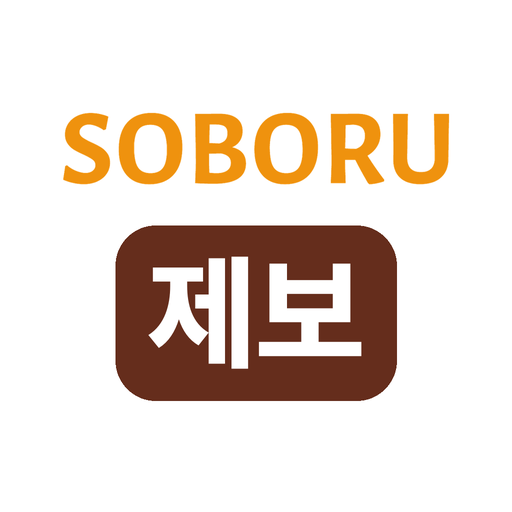
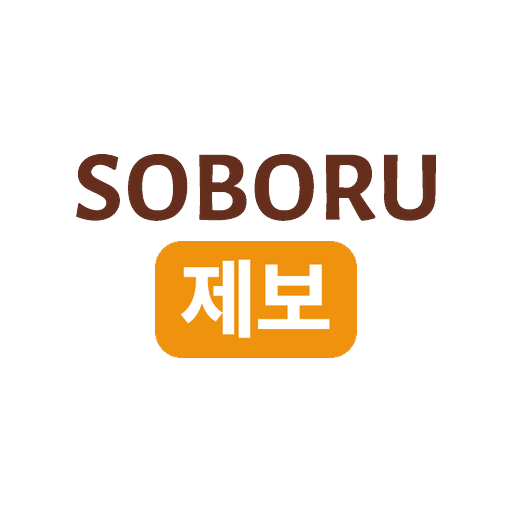
제보 도우미, 로그인 없이 제보, 소보루제보 앱 아이콘, 둘러보기·상세 표지·협력기관 띠, 자문단 메일, 레터 카드 (#369)
* 소보루 레터에 소비자제보센터 바로 가기 카드

Claude-Session: https://claude.ai/code/session_01SGfBdtXmX7h9qt8XW4iLQw

* 로그인 없이도 제보 받기 (기본값)

Claude-Session: https://claude.ai/code/session_01SGfBdtXmX7h9qt8XW4iLQw

* 자동으로 만든 자문단 계정은 같은 이메일의 카카오·네이버 로그인으로 이어짐

Claude-Session: https://claude.ai/code/session_01SGfBdtXmX7h9qt8XW4iLQw

* 소보루제보 앱 1.1.0: 갈색 SOBORU + 귤색 제보 상자 아이콘, 제보하기 탭은 글쓰기 제보로

Claude-Session: https://claude.ai/code/session_01SGfBdtXmX7h9qt8XW4iLQw

* 소보루제보 앱 아이콘: SOBORU를 진짜 로고체(갈색)로 교체

Claude-Session: https://claude.ai/code/session_01SGfBdtXmX7h9qt8XW4iLQw

* 제보 도우미: 캡처로 빈칸 채우기 + 문제 나열, 5가지 완성도 막대 (제보는 막지 않음)

Claude-Session: https://claude.ai/code/session_01SGfBdtXmX7h9qt8XW4iLQw

* 자문단 섭외 메일 합니다체·예시 화면, 둘러보기 휴대폰 B안+메시지 카드, 제보 상세 업종 표지, 협력기관 띠에 경기도소비자정보센터·한국소비자단체협의회

Claude-Session: https://claude.ai/code/session_01SGfBdtXmX7h9qt8XW4iLQw

---------

Changed region(s): [[0.125, 0.2188, 0.875, 0.7812]]

diff --git a/templates/report.html b/templates/report.html
@@ -17,6 +17,27 @@
   <div class="form-panel">
     <form method="post" enctype="multipart/form-data"><input type="hidden" name="_csrf" value="{{ csrf_token() }}">
       <div class="hp" aria-hidden="true"><label>웹사이트<input name="website" tabindex="-1" autocomplete="off"></label></div>
+      <h2 class="form-group-title">{{ ui('report.group_case', '제보 내용') }}</h2>
+      {#- 운영자 2026-11-04: 제보 도우미 — 캡처를 올리면 AI가 읽어서 빈칸을 채우고 문제를 짚어 줌. 안 써도 제보는 그대로 됨 -#}
+      {% if scan_on %}<div class="scan-box" data-scan data-url="{{ url_for('report_talk_ai') }}">
+        <label class="scan-pick"><input type="file" accept="image/*" multiple hidden><span class="scan-ic" aria-hidden="true"><svg viewBox="0 0 24 24"><path d="M4 8V6a2 2 0 0 1 2-2h2M16 4h2a2 2 0 0 1 2 2v2M20 16v2a2 2 0 0 1-2 2h-2M8 20H6a2 2 0 0 1-2-2v-2"/><path d="M8 12h8"/></svg></span><span class="scan-t"><b>{{ ui('report.scan_t', '캡처로 빠르게 채우기') }}</b><small>{{ ui('report.scan_sub', '주문 내역, 결제 문자, 상담 대화 캡처를 올리면 AI가 읽고 빈칸을 채워요') }}</small></span></label>
+        <div class="scan-out" hidden><p class="scan-msg" role="status"></p><ul class="scan-issues"></ul></div>
+      </div>{% endif %}
+      <div class="field"><label for="r-industry">{{ ui('report.f_industry', '업종') }} <small>*</small></label><select id="r-industry" name="industry" required><option value="">{{ ui('report.f_industry_pick', '업종을 골라 주세요') }}</option>{% for x in industries %}<option value="{{ x.name }}"{% if request.form.get('industry') == x.name %} selected{% endif %}>{{ x.name }}{% if x.examples %} — {{ x.examples }}{% endif %}</option>{% endfor %}</select>{{ ed_list('report_industries') }}</div>
+      <div class="field"><label for="r-category">{{ ui('report.f_category', '제보 유형') }} <small>*</small></label><select id="r-category" name="category" required><option value="">{{ ui('report.f_category_pick', '선택해 주세요') }}</option>{% for x in categories %}<option {% if request.form.get('category', request.args.get('category')) == x %}selected{% endif %}>{{ x }}</option>{% endfor %}</select></div>
+      <div class="field co-pick"><label for="r-company">{{ ui('report.f_company', '업체·서비스명') }} <small>*</small></label><input id="r-company" name="company" maxlength="120" required autocomplete="off" role="combobox" aria-autocomplete="list" aria-expanded="false" aria-controls="r-company-list" placeholder="{{ ui('report.f_company_ph', '예: 소보루쇼핑몰') }}" value="{{ request.form.get('company','') }}"><input type="hidden" name="company_id" value="{{ request.form.get('company_id','') }}"><ul class="co-suggest" id="r-company-list" role="listbox" hidden></ul><p class="hint">{{ ui('report.f_company_hint', '홈페이지 주소 말고 정확한 업체명(상호)을 적어 주세요. 정확할수록 빨리 확인할 수 있어요.') }} {{ ui('report.f_company_hint2', '등록된 기업은 이름을 치면 아래에 떠요. 없으면 그대로 적어 주세요.') }}</p></div>
+      <div class="field"><label for="r-occurred">{{ ui('report.f_occurred', '피해가 일어난 날') }}</label><input id="r-occurred" name="occurred_on" type="date" max="{{ today }}" value="{{ request.form.get('occurred_on','') }}"><p class="hint">{{ ui('report.f_occurred_hint', '정확하지 않으면 비워 두셔도 돼요.') }}</p></div>
+      <div class="field"><label for="r-subject">{{ ui('report.f_subject', '제보 제목') }} <small>*</small></label><input id="r-subject" name="subject" maxlength="160" required placeholder="{{ ui('report.f_subject_ph', '피해 내용을 한 줄로 요약해 주세요') }}" value="{{ request.form.get('subject','') }}"></div>
+      <div class="field"><label for="r-description">{{ ui('report.f_description', '피해 내용') }} <small>*</small></label><textarea id="r-description" name="description" maxlength="6000" required placeholder="{{ ui('report.f_description_ph', '구매·계약 일자, 피해 경위, 업체와 주고받은 내용을 구체적으로 작성해 주세요') }}">{{ request.form.get('description','') }}</textarea></div>
+      <div class="jebo-help" data-help hidden>
+        <div class="jh-top"><b>{{ ui('report.help_t', '제보 도우미') }}</b><span class="jh-pct">0%</span></div>
+        <div class="jh-bar" aria-hidden="true"><i></i></div>
+        <p class="jh-note">{{ ui('report.help_note', '다섯 가지가 들어가면 업체에 더 정확하게 전할 수 있어요. 다 못 채워도 제보할 수 있어요.') }}</p>
+        <div class="jh-chips"></div>
+      </div>
+      <div class="field"><label for="r-request">{{ ui('report.f_request', '원하는 해결 방법') }} <small>*</small></label><textarea id="r-request" name="request_text" maxlength="3000" required placeholder="{{ ui('report.f_request_ph', '환불, 교환, 수리, 설명 요청 등') }}">{{ request.form.get('request_text','') }}</textarea></div>
+      <div class="field"><label for="r-evidence">{{ ui('report.f_file', '증빙자료 (선택)') }}</label><input id="r-evidence" type="file" name="evidence" multiple accept=".pdf,.png,.jpg,.jpeg,.webp,.mp4,.mov"><p class="hint">{{ ui('report.f_file_hint2', '사진·PDF·동영상(mp4, mov)을 5개까지, 모두 합쳐 20MB까지 올릴 수 있어요. 사진과 동영상이 있으면 더 빠르게 확인할 수 있어요. 개인정보가 담긴 부분은 가리고 올려 주세요.') }}</p><p class="hint file-picked" hidden></p></div>
+
       <h2 class="form-group-title">{{ ui('report.group_reporter', '제보자 정보') }}</h2>
       <p class="form-group-note">{{ ui('report.group_reporter_note', '연락처와 개인정보는 공개되지 않고, 제보 확인과 연락에만 쓰여요.') }}</p>
       {% set me = g.user if g.user and request.method == 'GET' else none %}
@@ -44,15 +65,6 @@
         <div class="field"><label for="r-age">{{ ui('report.f_age', '연령대 (선택)') }}</label><select id="r-age" name="age_group"><option value="">{{ ui('report.f_age_pick', '연령대 선택') }}</option>{% for x in ages %}<option{% if request.form.get('age_group') == x %} selected{% endif %}>{{ x }}</option>{% endfor %}</select></div>
       </div>
 
-      <h2 class="form-group-title">{{ ui('report.group_case', '제보 내용') }}</h2>
-      <div class="field"><label for="r-industry">{{ ui('report.f_industry', '업종') }} <small>*</small></label><select id="r-industry" name="industry" required><option value="">{{ ui('report.f_industry_pick', '업종을 골라 주세요') }}</option>{% for x in industries %}<option value="{{ x.name }}"{% if request.form.get('industry') == x.name %} selected{% endif %}>{{ x.name }}{% if x.examples %} — {{ x.examples }}{% endif %}</option>{% endfor %}</select>{{ ed_list('report_industries') }}</div>
-      <div class="field"><label for="r-category">{{ ui('report.f_category', '제보 유형') }} <small>*</small></label><select id="r-category" name="category" required><option value="">{{ ui('report.f_category_pick', '선택해 주세요') }}</option>{% for x in categories %}<option {% if request.form.get('category', request.args.get('category')) == x %}selected{% endif %}>{{ x }}</option>{% endfor %}</select></div>
-      <div class="field co-pick"><label for="r-company">{{ ui('report.f_company', '업체·서비스명') }} <small>*</small></label><input id="r-company" name="company" maxlength="120" required autocomplete="off" role="combobox" aria-autocomplete="list" aria-expanded="false" aria-controls="r-company-list" placeholder="{{ ui('report.f_company_ph', '예: 소보루쇼핑몰') }}" value="{{ request.form.get('company','') }}"><input type="hidden" name="company_id" value="{{ request.form.get('company_id','') }}"><ul class="co-suggest" id="r-company-list" role="listbox" hidden></ul><p class="hint">{{ ui('report.f_company_hint', '홈페이지 주소 말고 정확한 업체명(상호)을 적어 주세요. 정확할수록 빨리 확인할 수 있어요.') }} {{ ui('report.f_company_hint2', '등록된 기업은 이름을 치면 아래에 떠요. 없으면 그대로 적어 주세요.') }}</p></div>
-      <div class="field"><label for="r-occurred">{{ ui('report.f_occurred', '피해가 일어난 날') }}</label><input id="r-occurred" name="occurred_on" type="date" max="{{ today }}" value="{{ request.form.get('occurred_on','') }}"><p class="hint">{{ ui('report.f_occurred_hint', '정확하지 않으면 비워 두셔도 돼요.') }}</p></div>
-      <div class="field"><label for="r-subject">{{ ui('report.f_subject', '제보 제목') }} <small>*</small></label><input id="r-subject" name="subject" maxlength="160" required placeholder="{{ ui('report.f_subject_ph', '피해 내용을 한 줄로 요약해 주세요') }}" value="{{ request.form.get('subject','') }}"></div>
-      <div class="field"><label for="r-description">{{ ui('report.f_description', '피해 내용') }} <small>*</small></label><textarea id="r-description" name="description" maxlength="6000" required placeholder="{{ ui('report.f_description_ph', '구매·계약 일자, 피해 경위, 업체와 주고받은 내용을 구체적으로 작성해 주세요') }}">{{ request.form.get('description','') }}</textarea></div>
-      <div class="field"><label for="r-request">{{ ui('report.f_request', '원하는 해결 방법') }} <small>*</small></label><textarea id="r-request" name="request_text" maxlength="3000" required placeholder="{{ ui('report.f_request_ph', '환불, 교환, 수리, 설명 요청 등') }}">{{ request.form.get('request_text','') }}</textarea></div>
-      <div class="field"><label for="r-evidence">{{ ui('report.f_file', '증빙자료 (선택)') }}</label><input id="r-evidence" type="file" name="evidence" multiple accept=".pdf,.png,.jpg,.jpeg,.webp,.mp4,.mov"><p class="hint">{{ ui('report.f_file_hint2', '사진·PDF·동영상(mp4, mov)을 5개까지, 모두 합쳐 20MB까지 올릴 수 있어요. 사진과 동영상이 있으면 더 빠르게 확인할 수 있어요. 개인정보가 담긴 부분은 가리고 올려 주세요.') }}</p><p class="hint file-picked" hidden></p></div>
 
       <fieldset class="field visibility-pick"><legend>{{ ui('report.f_visibility', '공개 설정') }} <small>*</small></legend>
         <label class="vis-option"><input type="radio" name="visibility" value="public" required{% if request.form.get('visibility') == 'public' %} checked{% endif %}><span><b>{{ ui('report.vis_public', '공개') }}</b>{{ txt('report.visibility_public') }}</span></label>
@@ -139,6 +151,92 @@
       out.hidden = !names.length;
       out.textContent = names.length + '개 · ' + (total / 1048576).toFixed(1) + 'MB' + (input.files.length > {{ max_files }} || total > 20971520 ? ' — 5개, 20MB 이하로 골라 주세요' : '') + ' : ' + names.join(', ');
     });
+  })();
+  // 운영자 2026-11-04: 제보 도우미 ① 캡처로 채우기 — 사진을 줄여 AI에 보내고, 비어 있는 칸만 채움 (적어 둔 건 건드리지 않음). 올린 사진은 증빙자료에도 붙임
+  (function () {
+    var box = document.querySelector('[data-scan]');
+    if (!box) return;
+    var input = box.querySelector('input[type=file]'), out = box.querySelector('.scan-out'), msg = box.querySelector('.scan-msg'), ul = box.querySelector('.scan-issues');
+    var form = box.closest('form'), ev = document.getElementById('r-evidence');
+    function shrink(f) {
+      return new Promise(function (ok) {
+        var im = new Image(), url = URL.createObjectURL(f);
+        im.onload = function () {
+          var r = Math.min(1, 1024 / Math.max(im.width, im.height)), cv = document.createElement('canvas');
+          cv.width = Math.round(im.width * r); cv.height = Math.round(im.height * r);
+          cv.getContext('2d').drawImage(im, 0, 0, cv.width, cv.height); URL.revokeObjectURL(url);
+          cv.toBlob(function (b) { ok(b); }, 'image/jpeg', 0.8);
+        };
+        im.onerror = function () { URL.revokeObjectURL(url); ok(null); };
+        im.src = url;
+      });
+    }
+    function setVal(name, v) {
+      var el = form.querySelector('[name=' + name + ']');
+      if (!el || !v || el.value.trim()) return false;
+      if (el.tagName === 'SELECT' && !Array.prototype.some.call(el.options, function (o) { return o.value === v || o.text === v; })) return false;
+      el.value = v; el.dispatchEvent(new Event('input', { bubbles: true })); el.dispatchEvent(new Event('change', { bubbles: true }));
+      el.classList.add('scan-filled'); return true;
+    }
+    function attach(files) {
+      if (!ev || typeof DataTransfer === 'undefined') return;
+      try {
+        var dt = new DataTransfer();
+        Array.prototype.forEach.call(ev.files, function (f) { dt.items.add(f); });
+        files.forEach(function (f) { if (dt.files.length < {{ max_files }}) dt.items.add(f); });
+        ev.files = dt.files; ev.dispatchEvent(new Event('change'));
+      } catch (e) {}
+    }
+    input.addEventListener('change', function () {
+      var files = Array.prototype.slice.call(input.files, 0, 3);
+      if (!files.length) return;
+      out.hidden = false; ul.innerHTML = ''; msg.textContent = '{{ ui('report.scan_wait', '사진을 읽고 있어요. 10초쯤 걸려요.') }}'; box.classList.add('is-busy');
+      attach(files);
+      Promise.all(files.map(shrink)).then(function (blobs) {
+        var fd = new FormData();
+        fd.append('_csrf', form.querySelector('[name=_csrf]').value); fd.append('story', '');
+        blobs.forEach(function (b, i) { if (b) fd.append('photo', b, 'shot' + i + '.jpg'); });
+        return fetch(box.dataset.url, { method: 'POST', body: fd, credentials: 'same-origin' }).then(function (r) { return r.json(); });
+      }).then(function (res) {
+        box.classList.remove('is-busy');
+        if (!res || !res.ok) { msg.textContent = '{{ ui('report.scan_fail', '사진을 읽지 못했어요. 그대로 직접 적어 주세요.') }}'; return; }
+        var d = res.draft, n = 0;
+        ['industry', 'category', 'company', 'occurred_on', 'subject', 'description', 'request_text'].forEach(function (k) { if (setVal(k, d[k])) n++; });
+        msg.textContent = n ? '{{ ui('report.scan_done', '빈칸을 채웠어요. 다르면 고쳐 주세요.') }}' : '{{ ui('report.scan_none', '이미 적어 둔 내용은 그대로 뒀어요.') }}';
+        (d.issues || []).forEach(function (t) { var li = document.createElement('li'); li.textContent = t; ul.appendChild(li); });
+      }).catch(function () { box.classList.remove('is-busy'); msg.textContent = '{{ ui('report.scan_fail', '사진을 읽지 못했어요. 그대로 직접 적어 주세요.') }}'; });
+      input.value = '';
+    });
+  })();
+  // 운영자 2026-11-04: 제보 도우미 ② 완성도 막대 — 어디서·언제·무엇을 얼마에·무슨 일이·업체는 (육하원칙 대신 5가지). 막지는 않고 알려만 줌
+  (function () {
+    var help = document.querySelector('[data-help]');
+    if (!help) return;
+    var form = help.closest('form'), desc = document.getElementById('r-description'), co = document.getElementById('r-company'), day = document.getElementById('r-occurred');
+    var bar = help.querySelector('.jh-bar i'), pct = help.querySelector('.jh-pct'), chips = help.querySelector('.jh-chips');
+    var items = [
+      { k: 'where', label: '{{ ui('report.h_where', '어디서') }}', ok: function (t) { return co.value.trim().length > 0; }, go: function () { co.focus(); } },
+      { k: 'when', label: '{{ ui('report.h_when', '언제') }}', ok: function (t) { return !!day.value || /(\d{1,2}\s*월|\d{1,2}\s*일|어제|그제|그저께|지난\s*(주|달|번|해)|\d{4}[.\-\/년])/.test(t); }, go: function () { day.focus(); } },
+      { k: 'what', label: '{{ ui('report.h_what', '무엇을 얼마에') }}', ok: function (t) { return /\d[\d,.]*\s*(만\s*)?(천\s*)?원|만\s*원/.test(t); }, add: '{{ ui('report.h_what_add', '산 물건과 금액: ') }}' },
+      { k: 'happen', label: '{{ ui('report.h_happen', '무슨 일이') }}', ok: function (t) { return t.replace(/\s/g, '').length >= 40; }, go: function () { desc.focus(); } },
+      { k: 'reply', label: '{{ ui('report.h_reply', '업체는 뭐라고 했는지') }}', ok: function (t) { return /(고객센터|상담|문의|연락|답변|판매자|업체(에서|는|측)|라고\s*했|래요|하더라|안\s*받|거절)/.test(t); }, add: '{{ ui('report.h_reply_add', '업체에 연락했더니 ') }}' }
+    ];
+    function addText(s) { var v = desc.value.replace(/\s+$/, ''); desc.value = (v ? v + '\n' : '') + s; desc.focus(); desc.setSelectionRange(desc.value.length, desc.value.length); update(); }
+    function update() {
+      var t = desc.value, done = 0; chips.innerHTML = '';
+      items.forEach(function (it) {
+        var ok = it.ok(t); if (ok) done++;
+        var b = document.createElement('button'); b.type = 'button'; b.className = 'jh-chip' + (ok ? ' is-ok' : '');
+        b.textContent = (ok ? '✓ ' : '+ ') + it.label;
+        if (!ok) b.addEventListener('click', function () { if (it.add) addText(it.add); else it.go(); });
+        chips.appendChild(b);
+      });
+      var p = Math.round(done * 100 / items.length); bar.style.width = p + '%'; pct.textContent = p + '%';
+      help.classList.toggle('is-full', p === 100);
+    }
+    help.hidden = false;
+    [desc, co, day].forEach(function (el) { el.addEventListener('input', update); el.addEventListener('change', update); });
+    update();
   })();
 </script>
 {% endblock %}

diff --git a/templates/index.html b/templates/index.html
@@ -42,7 +42,7 @@
   {# 운영자 2026-11-03: 사진 아래 = 흐르는 띠 대신 소보루·공정거래위원회·한국소비자원·소비자24 가로 로고 한 줄 (돌지 않음, 설명 문구 없음) #}
   <section class="org-band" aria-label="{{ ui('home.orgs', '소비자 관련 기관') }}">
     {# 운영자 2026-11-03: 고정돼 있으면 공식 기관 같아서 띠처럼 흘러가게 #}
-    <div class="org-track"><ul><li class="o1"><span class="org-self"><img src="{{ asset('img/orgs/soboru.png') }}" alt="SOBORU" width="120" height="32"><small>{{ ui('home.orgs_paper', '소비자를 위한 신문') }}</small></span></li><li class="o2"><a href="https://www.ftc.go.kr" target="_blank" rel="noopener"><img src="{{ asset('img/orgs/ftc.png') }}" alt="공정거래위원회" width="145" height="35"></a></li><li class="o3"><a href="https://www.kca.go.kr" target="_blank" rel="noopener"><img src="{{ asset('img/orgs/kca.png') }}" alt="한국소비자원" width="150" height="33"></a></li><li class="o4"><a href="https://www.consumer.go.kr" target="_blank" rel="noopener"><img src="{{ asset('img/orgs/c24.png') }}" alt="소비자24" width="207" height="61"></a></li><li class="o5"><a href="https://www.safetykorea.kr" target="_blank" rel="noopener"><img src="{{ asset('img/orgs/safety.png') }}" alt="제품안전정보센터" width="219" height="58"></a></li><li class="o6"><a href="https://www.foodsafetykorea.go.kr" target="_blank" rel="noopener"><img src="{{ asset('img/orgs/food.png') }}" alt="식품안전나라" width="300" height="38"></a></li></ul><ul aria-hidden="true"><li class="o1"><span class="org-self"><img src="{{ asset('img/orgs/soboru.png') }}" alt="SOBORU" width="120" height="32"><small>{{ ui('home.orgs_paper', '소비자를 위한 신문') }}</small></span></li><li class="o2"><a href="https://www.ftc.go.kr" tabindex="-1" target="_blank" rel="noopener"><img src="{{ asset('img/orgs/ftc.png') }}" alt="공정거래위원회" width="145" height="35"></a></li><li class="o3"><a href="https://www.kca.go.kr" tabindex="-1" target="_blank" rel="noopener"><img src="{{ asset('img/orgs/kca.png') }}" alt="한국소비자원" width="150" height="33"></a></li><li class="o4"><a href="https://www.consumer.go.kr" tabindex="-1" target="_blank" rel="noopener"><img src="{{ asset('img/orgs/c24.png') }}" alt="소비자24" width="207" height="61"></a></li><li class="o5"><a href="https://www.safetykorea.kr" tabindex="-1" target="_blank" rel="noopener"><img src="{{ asset('img/orgs/safety.png') }}" alt="제품안전정보센터" width="219" height="58"></a></li><li class="o6"><a href="https://www.foodsafetykorea.go.kr" tabindex="-1" target="_blank" rel="noopener"><img src="{{ asset('img/orgs/food.png') }}" alt="식품안전나라" width="300" height="38"></a></li></ul></div>
+    <div class="org-track"><ul><li class="o1"><span class="org-self"><img src="{{ asset('img/orgs/soboru.png') }}" alt="SOBORU" width="120" height="32"><small>{{ ui('home.orgs_paper', '소비자를 위한 신문') }}</small></span></li><li class="o2"><a href="https://www.ftc.go.kr" target="_blank" rel="noopener"><img src="{{ asset('img/orgs/ftc.png') }}" alt="공정거래위원회" width="145" height="35"></a></li><li class="o3"><a href="https://www.kca.go.kr" target="_blank" rel="noopener"><img src="{{ asset('img/orgs/kca.png') }}" alt="한국소비자원" width="150" height="33"></a></li><li class="o4"><a href="https://www.consumer.go.kr" target="_blank" rel="noopener"><img src="{{ asset('img/orgs/c24.png') }}" alt="소비자24" width="207" height="61"></a></li><li class="o5"><a href="https://www.safetykorea.kr" target="_blank" rel="noopener"><img src="{{ asset('img/orgs/safety.png') }}" alt="제품안전정보센터" width="219" height="58"></a></li><li class="o6"><a href="https://www.foodsafetykorea.go.kr" target="_blank" rel="noopener"><img src="{{ asset('img/orgs/food.png') }}" alt="식품안전나라" width="300" height="38"></a></li><li class="o7"><a href="https://ccic.gg.go.kr" target="_blank" rel="noopener"><img src="{{ asset('img/orgs/gg.png') }}" alt="경기도소비자정보센터" width="205" height="44"></a></li><li class="o8"><a href="https://www.consumer.or.kr" target="_blank" rel="noopener"><img src="{{ asset('img/orgs/kncco.png') }}" alt="한국소비자단체협의회" width="230" height="40"></a></li></ul><ul aria-hidden="true"><li class="o1"><span class="org-self"><img src="{{ asset('img/orgs/soboru.png') }}" alt="SOBORU" width="120" height="32"><small>{{ ui('home.orgs_paper', '소비자를 위한 신문') }}</small></span></li><li class="o2"><a href="https://www.ftc.go.kr" tabindex="-1" target="_blank" rel="noopener"><img src="{{ asset('img/orgs/ftc.png') }}" alt="공정거래위원회" width="145" height="35"></a></li><li class="o3"><a href="https://www.kca.go.kr" tabindex="-1" target="_blank" rel="noopener"><img src="{{ asset('img/orgs/kca.png') }}" alt="한국소비자원" width="150" height="33"></a></li><li class="o4"><a href="https://www.consumer.go.kr" tabindex="-1" target="_blank" rel="noopener"><img src="{{ asset('img/orgs/c24.png') }}" alt="소비자24" width="207" height="61"></a></li><li class="o5"><a href="https://www.safetykorea.kr" tabindex="-1" target="_blank" rel="noopener"><img src="{{ asset('img/orgs/safety.png') }}" alt="제품안전정보센터" width="219" height="58"></a></li><li class="o6"><a href="https://www.foodsafetykorea.go.kr" tabindex="-1" target="_blank" rel="noopener"><img src="{{ asset('img/orgs/food.png') }}" alt="식품안전나라" width="300" height="38"></a></li><li class="o7"><a href="https://ccic.gg.go.kr" tabindex="-1" target="_blank" rel="noopener"><img src="{{ asset('img/orgs/gg.png') }}" alt="경기도소비자정보센터" width="205" height="44"></a></li><li class="o8"><a href="https://www.consumer.or.kr" tabindex="-1" target="_blank" rel="noopener"><img src="{{ asset('img/orgs/kncco.png') }}" alt="한국소비자단체협의회" width="230" height="40"></a></li></ul></div>
   </section>
 
   {% elif block.kind in ('hero', 'hero_plain') %}

diff --git a/static/style.css b/static/style.css
@@ -2209,3 +2209,41 @@ html:has(> body:not(.sb):not(.console):not(.newsroom)),body:not(.sb):not(.consol
 .co-logo-lg{width:40px;height:40px;border-radius:12px;vertical-align:-8px;margin-right:12px}
 /* 기업 답변 링크 화면 */
 .co-reply .co-reply-note{margin:18px 0 16px;padding:12px 14px;border-radius:12px;background:#fff8f0;color:#8a4b00;font-size:14px;line-height:1.7}
+
+/* 운영자 2026-11-04: 제보 도우미 — 캡처로 채우기 + 5가지 완성도 막대 (막지 않고 알려만 줌) */
+.scan-box { margin: 0 0 22px; }
+.scan-pick { display: flex; align-items: center; gap: 14px; padding: 18px 20px; border: 1.5px dashed #f5c98a; border-radius: 16px; background: #fff8ee; cursor: pointer; transition: background .2s, transform .1s; }
+.scan-pick:hover { background: #fff1dc; }
+.scan-pick:active { transform: scale(.99); }
+.scan-ic { flex: 0 0 44px; width: 44px; height: 44px; border-radius: 12px; background: #EF920E; display: grid; place-items: center; }
+.scan-ic svg { width: 24px; height: 24px; fill: none; stroke: #fff; stroke-width: 2.2; stroke-linecap: round; stroke-linejoin: round; }
+.scan-t { display: flex; flex-direction: column; gap: 3px; min-width: 0; }
+.scan-t b { font-size: 16px; color: #191f28; font-weight: 700; }
+.scan-t small { font-size: 13.5px; color: #4e5968; line-height: 1.5; }
+.scan-box.is-busy .scan-pick { pointer-events: none; opacity: .7; }
+.scan-box.is-busy .scan-ic { animation: scan-pulse 1s ease-in-out infinite; }
+@keyframes scan-pulse { 50% { transform: scale(.88); } }
+.scan-out { margin-top: 10px; padding: 14px 18px; border-radius: 14px; background: #fff; border: 1px solid #f3e3cc; }
+.scan-msg { margin: 0; font-size: 14px; font-weight: 600; color: #CE6719; }
+.scan-issues { margin: 8px 0 0; padding: 0; list-style: none; display: grid; gap: 6px; }
+.scan-issues:empty { display: none; }
+.scan-issues li { position: relative; padding-left: 16px; font-size: 14px; color: #333d4b; line-height: 1.55; }
+.scan-issues li::before { content: ''; position: absolute; left: 2px; top: .6em; width: 6px; height: 6px; border-radius: 50%; background: #EF920E; }
+.field .scan-filled { border-color: #f5c98a; background: #fffbf5; }
+.jebo-help { margin: -8px 0 24px; padding: 16px 18px; border-radius: 16px; background: #fff8ee; }
+.jh-top { display: flex; align-items: baseline; justify-content: space-between; gap: 10px; }
+.jh-top b { font-size: 15px; color: #191f28; }
+.jh-pct { font-size: 15px; font-weight: 700; color: #CE6719; font-variant-numeric: tabular-nums; }
+.jh-bar { height: 8px; margin: 10px 0; border-radius: 99px; background: #fbe3c2; overflow: hidden; }
+.jh-bar i { display: block; height: 100%; width: 0; border-radius: inherit; background: #EF920E; transition: width .35s ease; }
+.jh-note { margin: 0 0 12px; font-size: 13.5px; color: #4e5968; line-height: 1.55; }
+.jebo-help.is-full .jh-note { color: #CE6719; font-weight: 600; }
+.jh-chips { display: flex; flex-wrap: wrap; gap: 8px; }
+.jh-chip { border: 1px solid #f3d3a4; background: #fff; color: #CE6719; border-radius: 99px; padding: 7px 13px; font-size: 13.5px; font-weight: 600; cursor: pointer; font-family: inherit; }
+.jh-chip:hover { background: #fff1dc; }
+.jh-chip.is-ok { background: #EF920E; border-color: #EF920E; color: #fff; cursor: default; }
+@media (max-width: 640px) {
+  .scan-pick { padding: 16px; gap: 12px; }
+  .scan-t b { font-size: 15px; }
+  .jebo-help { padding: 14px 16px; }
+}

diff --git a/templates/letter_email.html b/templates/letter_email.html
@@ -265,6 +265,15 @@
     {% endfor %}
   </td></tr>
   {% endif %}
+  {#- 소비자제보센터 바로 가기 (운영자 2026-11-04): 레터를 다시 시작하며 맺음 앞에 큰 카드 하나. 링크엔 utm_source=letter (방문 통계 '들어온 곳') -#}
+  <tr><td style="padding:40px 22px 0;{{ F }}">
+    <table role="presentation" width="100%" cellpadding="0" cellspacing="0" border="0" style="background:#fff4e2;border-radius:22px;"><tr><td style="padding:28px 24px 26px;{{ F }}">
+      <a href="{{ jebo }}/?utm_source=letter" style="text-decoration:none;"><img src="{{ jebo }}/static/img/jebo-logo-mail-t.png" width="200" alt="소비자제보센터 by SOBORU" style="display:block;width:200px;max-width:100%;height:auto;border:0;margin:0 0 20px;"></a>
+      <p style="margin:0 0 10px;font-size:22px;line-height:1.45;font-weight:800;letter-spacing:-0.4px;color:#191f28;">{{ ic('mega', 24) }}&nbsp; 억울한 소비자 피해,<br>혼자 삭이지 마세요</p>
+      <p style="margin:0 0 20px;font-size:17px;line-height:1.8;color:#4e5968;">환불을 안 해 주거나, 광고와 다른 물건이 왔거나, 고객센터가 답이 없다면 소비자제보센터에 겪은 일을 올려 주세요. 기업에 답변을 요청하고, 검토해서 기사로 다룰 사안이면 기사로 알려요.</p>
+      <table role="presentation" width="100%" cellpadding="0" cellspacing="0" border="0"><tr><td align="center" bgcolor="#EF920E" style="background:#EF920E;border-radius:16px;padding:16px 12px;{{ F }}"><a href="{{ jebo }}/?utm_source=letter" style="display:block;color:#ffffff;font-size:18px;font-weight:800;text-decoration:none;">소비자제보센터 바로 가기 ›</a></td></tr></table>
+    </td></tr></table>
+  </td></tr>
   {#- 맺음: 스티비 템플릿처럼 회색 상자 → 구독 버튼 → 작은 바닥글, 색·로고는 소보루 (운영자 2026-11-01) -#}
   <tr><td style="padding:34px 22px 0;{{ F }}">
     <table role="presentation" width="100%" cellpadding="0" cellspacing="0" border="0" style="background:#fdf7ed;"><tr><td align="center" style="padding:28px 22px 26px;text-align:center;{{ F }}">
@@ -278,7 +287,6 @@
   </td></tr>
   <tr><td align="center" style="padding:30px 22px 0;{{ F }}">
     <a href="{{ site }}/letter" style="display:inline-block;padding:13px 30px;border:2px solid #ef920e;border-radius:999px;color:#ef7300;font-size:18px;font-weight:800;text-decoration:none;">소보루 레터 구독하기</a>
-    <p style="margin:16px 0 0;font-size:16px;line-height:1.6;color:#a39d97;text-align:justify;word-break:normal;">억울한 소비자 피해를 겪었다면 <a href="{{ site }}/report" style="color:#ef7300;font-weight:700;text-decoration:none;">소보루에 제보</a>해 주세요.</p>
   </td></tr>
   <tr><td align="center" style="padding:30px 22px 40px;text-align:center;{{ F }}">
     <a href="{{ site }}/" style="text-decoration:none;">{% if mark_brown %}<img src="{{ mark_brown }}" width="150" alt="SOBORU 소보루" style="display:block;width:150px;height:auto;border:0;margin:0 auto 14px;">{% else %}<b style="font-size:22px;color:#652D1C;">SOBORU</b>{% endif %}</a>

diff --git a/static/report-feed.css b/static/report-feed.css
@@ -2013,3 +2013,19 @@ body:not(.sb):has(.auth-top) .auth-page{height:auto!important;min-height:calc(10
 .ab-cta{display:block;margin:40px 0 16px;height:56px;line-height:56px;border-radius:16px;background:#EF920E;color:#fff;text-align:center;font-size:17px;font-weight:700;text-decoration:none}
 .ab-note{margin:0;font-size:13px;line-height:19.5px;color:#8b95a1}
 @media(max-width:560px){.ab-in{padding:32px 20px 56px}.ab-title{font-size:22px;line-height:31px}.ab-three li{padding:16px}.ab-emo{width:44px;height:44px;font-size:24px}.ab-three b{font-size:17px}}
+/* 운영자 2026-11-04: 제보 상세 표지 (토스피드 글 표지 느낌, 업종 색 + 해시태그) */
+.pf-cover{display:flex;flex-direction:column;align-items:center;justify-content:center;gap:20px;margin:0 0 32px;aspect-ratio:16/9;max-width:100%;border-radius:16px;background:var(--cv,#f06595);padding:24px;box-sizing:border-box;overflow:hidden}
+.pf-cover-ic{width:64px;height:64px;filter:drop-shadow(0 6px 14px rgba(0,0,0,.12))}
+.pf-cover-tags{display:flex;flex-wrap:wrap;justify-content:center;gap:10px;max-width:100%}
+.pf-cover-tags span{padding:12px 24px;border-radius:99px;background:color-mix(in srgb,#fff 80%,var(--cv));border:1.5px solid rgba(255,255,255,.7);box-shadow:0 8px 20px rgba(0,0,0,.1);font-size:22px;line-height:1.3;font-weight:800;color:#191f28;white-space:nowrap;max-width:100%;overflow:hidden;text-overflow:ellipsis}
+@media(max-width:640px){.pf-cover{aspect-ratio:4/3;gap:14px;margin-bottom:24px}.pf-cover-ic{width:48px;height:48px}.pf-cover-tags{gap:8px}.pf-cover-tags span{padding:9px 16px;font-size:16px}}
+/* 운영자 2026-11-04: 경기도소비자정보센터 추가 (두 줄 마크라 다른 로고와 글자 크기가 맞게) */
+.org-band li.o7 img{height:33px}@media(max-width:760px){.org-band li.o7 img{height:26px}}
+.org-band li.o8 img{height:40px}@media(max-width:760px){.org-band li.o8 img{height:30px}}
+/* 운영자 2026-11-04: 둘러보기 휴대폰 = B안 얇은 검정 테두리 (금속·옆 버튼 없음) + 앞에 떠 있는 메시지 카드 */
+.xs-phone.xs-iphone{width:62%!important;background:#191f28!important;padding:8px 8px 0!important;border-radius:48px 48px 0 0!important;box-shadow:0 24px 50px rgba(101,45,28,.3)!important}
+.xs-iphone .ip-btn{display:none}
+.xs-iphone .xs-screen{border:0!important;border-radius:40px 40px 0 0!important;padding:22px 0 0!important}
+.xs-iphone .ipr-login{white-space:nowrap}
+.xs-feat-art:has(.xs-iphone) .xs-float{left:auto!important;right:4%!important;top:auto!important;bottom:10%!important;min-width:0!important;z-index:2}
+@media(max-width:760px){.xs-phone.xs-iphone{width:76%!important;padding:6px 6px 0!important;border-radius:40px 40px 0 0!important}.xs-iphone .xs-screen{border-radius:34px 34px 0 0!important;padding-top:18px!important}.xs-feat-art:has(.xs-iphone) .xs-float{right:3%!important;bottom:8%!important}}

diff --git a/templates/expert_done.html b/templates/expert_done.html
@@ -7,7 +7,7 @@
   <h1 class="xf-title">{% if status == 'approved' %}{{ ui('xf.done_ok', '소보루 자문단이 됐어요') }}{% else %}{{ ui('xf.done_wait', '신청을 받았어요') }}{% endif %}</h1>
   <ul class="xi-list xf-next">
     {% if status != 'approved' %}<li><span class="xh-ic is-check" aria-hidden="true"><svg viewBox="0 0 24 24"><path d="M12 3l7 3v5c0 4.5-3 8-7 10-4-2-7-5.5-7-10V6z"/><path d="M9 12l2 2 4-4"/></svg></span><div><b>{{ ui('xf.next1b', '운영자가 확인하고 승인할게요') }}</b><span>{{ ui('xf.next1_sub', '확인이 끝나면 연락처로 알려 드려요') }}</span></div></li>{% endif %}
-    <li><span class="xh-ic is-talk" aria-hidden="true"><svg viewBox="0 0 24 24"><path d="M4 5h16v11H9l-5 4z"/></svg></span><div><b>{{ ui('xf.next3', '자문단 계정이 만들어졌어요') }}</b><span>{{ ui('xf.next3_sub', '지금 로그인된 상태예요. 다음부터는 적어 주신 휴대폰 번호로 로그인해요') }}</span></div></li>
+    <li><span class="xh-ic is-talk" aria-hidden="true"><svg viewBox="0 0 24 24"><path d="M4 5h16v11H9l-5 4z"/></svg></span><div><b>{{ ui('xf.next3', '자문단 계정이 만들어졌어요') }}</b><span>{{ ui('xf.next3_sub2', '지금 로그인된 상태예요. 다음부터는 적어 주신 이메일의 카카오나 네이버 계정으로 로그인하면 이 계정으로 들어와요') }}</span></div></li>
   </ul>
   <div class="xi-cta">{% if login_url %}<a class="primary xi-go" href="{{ login_url }}">{{ ui('xf.claim', '로그인하고 계정 잇기') }}</a>{% else %}<a class="primary xi-go" href="{{ url_for('reports') }}">{{ ui('xf.to_reports', '제보 보러 가기') }}</a>{% endif %}</div>
 </div></main>

diff --git a/templates/admin_experts.html b/templates/admin_experts.html
@@ -3,7 +3,7 @@
 {% block content %}
 <main class="cs-page">
   <h1 class="cs-title">소보루 자문단</h1>
-  <p class="cs-lead">모시고 싶은 분을 한 명씩 등록해 <b>초대 링크</b>를 보내 주세요. 링크를 연 분이 정보와 프로필 사진을 넣으면 그 자리에서 자문단 계정이 만들어지고 바로 자문단이 돼요. 따로 가입하거나 로그인할 필요는 없고, 다음부터는 적어 준 휴대폰 번호로 로그인해요. 모집 페이지(<b>https://consumerjebo.co.kr{{ url_for('expert_apply') }}</b>)로 직접 신청한 분은 대한변협 검색 같은 공식 조회로 맞춰 본 뒤 승인해 주세요. 섭외 메일의 링크로 온 분은 초대받은 분처럼 바로 자문단이 돼요.</p>
+  <p class="cs-lead">모시고 싶은 분을 한 명씩 등록해 <b>초대 링크</b>를 보내 주세요. 링크를 연 분이 정보와 프로필 사진을 넣으면 그 자리에서 자문단 계정이 만들어지고 바로 자문단이 돼요. 따로 가입하거나 로그인할 필요는 없고, 다음부터는 적어 준 이메일의 카카오나 네이버 계정으로 로그인하면 그 계정으로 들어와요. 모집 페이지(<b>https://consumerjebo.co.kr{{ url_for('expert_apply') }}</b>)로 직접 신청한 분은 대한변협 검색 같은 공식 조회로 맞춰 본 뒤 승인해 주세요. 섭외 메일의 링크로 온 분은 초대받은 분처럼 바로 자문단이 돼요.</p>
 
   <form class="cs-panel cs-add" method="post"><input type="hidden" name="_csrf" value="{{ csrf_token() }}"><input type="hidden" name="act" value="invite">
     <h2>자문단 초대</h2>

diff --git a/templates/public_case.html b/templates/public_case.html
@@ -20,6 +20,13 @@
     </div>
   </header>
 
+  {# 운영자 2026-11-04: 토스피드 글 표지처럼 — 업종 색 바탕, 가운데 업종 그림과 핵심 해시태그 (목록에는 안 보이고 상세에서만) #}
+  {% set tags = [company|replace(' ', ''), (m[0] if m else category)|replace(' ', '')] %}
+  <figure class="pf-cover" style="--cv:{{ industry_color(case['industry']) }}" aria-hidden="true">
+    <img class="pf-cover-ic" src="{{ asset('img/ind/' ~ industry_icon(case['industry']) ~ '.svg') }}" alt="" width="64" height="64">
+    <span class="pf-cover-tags">{% for t in tags if t %}<span>#{{ t|truncate(16, True, '…') }}</span>{% endfor %}</span>
+  </figure>
+
   <section class="pf-steps-box" aria-label="{{ ui('reports.col_status', '진행 단계') }}">
     <ol class="pc-steps pf-steps">{% for s in pub_names() %}<li class="{{ 'on' if loop.index <= now_step else '' }}{{ ' now' if loop.index == now_step else '' }}"{% if loop.index == now_step %} aria-current="step"{% endif %}><i>{% if loop.index < now_step %}<svg viewBox="0 0 24 24" aria-hidden="true"><path d="M6 12.5l4 4 8-9"/></svg>{% else %}{{ loop.index }}{% endif %}</i><span>{{ s }}</span></li>{% endfor %}</ol>
     <a class="pc-co-row pf-co" {% if co %}href="{{ url_for('company_page', company_id=co['id']) }}"{% endif %}>

diff --git a/templates/expert_form.html b/templates/expert_form.html
@@ -61,7 +61,7 @@
   <ol class="xf-step">
     <li><i>01</i><b>{{ ui('xf.s1', '신청') }}</b><p>{% if no_proof %}{{ ui('xf.s1_inv', '위 칸을 채우고 프로필 사진을 올려요.') }}{% else %}{{ ui('xf.s1_t2', '위 칸을 채우고 프로필 사진을 올려요.') }}{% endif %}</p></li>
     <li><i>02</i><b>{{ ui('xf.s2', '확인') }}</b><p>{% if no_proof %}{{ ui('xf.s2_inv', '초대받으셨으니 서류 확인 없이 바로 끝나요.') }}{% else %}{{ ui('xf.s2_t2', '운영자가 확인하고 승인해요.') }}{% endif %}</p></li>
-    <li><i>03</i><b>{{ ui('xf.s3b', '자문단 계정이 바로 생겨요') }}</b><p>{{ ui('xf.s3b_t', '따로 가입하지 않아도 돼요. 다음부터는 적어 주신 휴대폰 번호로 로그인해요.') }}</p></li>
+    <li><i>03</i><b>{{ ui('xf.s3b', '자문단 계정이 바로 생겨요') }}</b><p>{{ ui('xf.s3b_t2', '따로 가입하지 않아도 돼요. 다음부터는 적어 주신 이메일의 카카오나 네이버 계정으로 로그인해요.') }}</p></li>
     <li><i>04</i><b>{{ ui('xf.s4', '활동 시작') }}</b><p>{{ ui('xf.s4_t', '관심 있는 제보에 의견을 남기고, 받은 상담 신청을 확인해요.') }}</p></li>
   </ol>
   <a class="xf-more-go" href="#top">{{ ui('xf.more_go', '지금 신청하기') }}</a>

diff --git a/templates/explore.html b/templates/explore.html
@@ -20,6 +20,8 @@
         {% for co, kind, rate, gr in [('소보루항공', '여행·숙박', 100, 'B+'), ('소보루쇼핑', '쇼핑·유통', 92, 'B'), ('소보루게임즈', '게임·앱', 80, 'C+'), ('소보루통신', '통신·인터넷', 74, 'C')] %}<div class="ipr-row"><b class="ipr-no">{{ loop.index }}</b><span class="ipr-av av-{{ loop.index0 % 5 }}">{{ co[3] }}</span><span class="ipr-nm"><b>{{ co }}</b><small>{{ kind }} · 답변 {{ rate }}%</small><i class="rk-bar"><em style="width:{{ rate }}%;background:#3182f6"></em></i></span><span class="ipr-gr g-{{ gr[0]|lower }}">{{ gr }}</span></div>{% endfor %}
         </div>
       </div></div>
+      {# 운영자 2026-11-04: 얇은 검정 테두리(B안) + 휴대폰 앞에 떠 있는 메시지 카드 다시 #}
+      <div class="xs-float"><span class="xs-float-ic">1</span><div><small>{{ ui('explore.feat_float_s2', '응대 잘하는 기업 1위') }}</small><b>{{ ui('explore.feat_float2', '소보루항공 답변 100%') }}</b></div></div>
     </div>
     <div class="xs-feat-copy">
       <span class="xs-kicker">{{ ui('explore.rank', '기업 응대 순위') }}</span>

diff --git a/soboru-app/src/TabBar.tsx b/soboru-app/src/TabBar.tsx
@@ -12,10 +12,10 @@ const MUTE = '#9A918A';
 
 export function tabsFor(member: boolean): Tab[] {
   return [
-    // 소보루제보 앱 (운영자 2026-11-03): 소비자제보센터(consumerjebo.co.kr)를 띄우고, 제보하기는 AI와 대화로
+    // 소보루제보 앱 (운영자 2026-11-03): 소비자제보센터(consumerjebo.co.kr)를 띄우고, 제보하기는 글쓰기 제보(/report, 위에 대화로 제보하기 칸)
     { key: 'home', label: '홈', path: '/' },
     { key: 'board', label: '제보 목록', path: '/reports' },
-    { key: 'report', label: '제보하기', path: '/report/talk' },
+    { key: 'report', label: '제보하기', path: '/report' },
     { key: 'life', label: '알림', path: member ? '/me/alerts' : '/login?next=/me/alerts' },
     member ? { key: 'my', label: '내 제보', path: '/me' } : { key: 'my', label: '내 제보', path: '/lookup' },
   ];

diff --git a/expert_mail.py b/expert_mail.py
@@ -9,32 +9,32 @@ BASE = 'https://consumerjebo.co.kr'
 FIRM = '○○ 법무법인'
 F = "font-family:'Apple SD Gothic Neo','Malgun Gothic','Noto Sans KR',sans-serif;"
 
-DEFAULTS = {
-    'subject': '[소비자제보센터] 소속 변호사님께 ‘소보루 자문단’ 참여를 제안드립니다',
-    'kick': '소보루 자문단 모집',
-    'title': FIRM + ' 귀중\n소속 변호사님께 전해 주세요',
-    'intro': '안녕하세요. 소비자 피해 제보 플랫폼 ‘소비자제보센터 by SOBORU’ 대표 오종민입니다. 갑작스러운 연락에 양해 부탁드립니다.\n\n'
-             '저희는 올해 문을 열었습니다. 소비자 피해는 혼자서 기업을 상대하기 어렵습니다. 고객센터에 몇 번을 물어도 답이 없거나, 같은 피해가 여러 사람에게 되풀이되는데도 서로 모른 채 묻히는 일이 많습니다. '
-             '소보루는 **‘소비자 권익 보호를 위한 루트’**라는 뜻으로, 이런 피해를 공개로 모아 함께 목소리를 내고 기업이 답하게 만들자는 취지로 시작했습니다.',
-    'flow_title': '제보는 이렇게 해결돼요',
-    'flow': '공개 제보 | 소비자가 겪은 일을 사진·자료와 함께 올려요.\n공감과 의견 | 같은 피해를 겪은 사람과 자문단이 힘을 보태요.\n'
-            '기업 답변 | 제보를 기업에 전달하고, 답변을 공개해요.\n기사화 | 널리 알려야 할 일은 기사로 써요.',
-    'ask': '소비자가 도움을 한곳에서 구하고 필요할 때 바로 자문받을 수 있도록, 함께해 주실 변호사님을 **‘소보루 자문단’**으로 모집하고 있습니다. '
+DEFAULTS = {  # 운영자 2026-11-04: 토스식 합니다체. 매체 영향력 대신 사건 연결·검색 노출·창립 멤버를 앞에 (인원·마감 제한 없음)
+    'subject': '[소비자를위한신문] 소비자 피해 자문 변호사님을 모십니다',
+    'kick': '소보루 자문단 창립 자문위원 모집',
+    'title': FIRM + ' 귀중\n소속 변호사님께 전해 주십시오',
+    'intro': '안녕하십니까. 소비자 전문 미디어 소비자를위한신문(소보루) 발행인 오종민입니다.\n\n'
+             '저희는 2026년 11월 1일 소비자 피해 제보 플랫폼 **‘소비자제보센터’**를 열었습니다. '
+             '소비자가 겪은 피해를 공개로 모으고, 기업에 답변을 요청하고, 널리 알려야 할 일은 기사로 씁니다.\n\n'
+             '이제 막 시작한 플랫폼입니다. 그래서 처음부터 함께 키워 갈 변호사님을 찾고 있습니다.',
+    'flow_title': '제보는 이렇게 처리됩니다',
+    'flow': '공개 제보 | 소비자가 겪은 일을 사진·자료와 함께 올립니다.\n공감과 의견 | 같은 피해를 겪은 사람과 자문단이 힘을 보탭니다.\n'
+            '기업 답변 | 제보를 기업에 전달하고, 답변을 공개합니다.\n기사화 | 널리 알려야 할 일은 기사로 씁니다.',
+    'ask': '제보를 읽다 보면 법률 도움이 꼭 필요한 소비자가 많습니다. 이분들께 믿을 수 있는 변호사님을 소개해 드리고 싶습니다. '
            '소비자 분쟁, 전자상거래, 약관, 개인정보, 금융 분야에 관심 있는 변호사님께 이 메일을 전해 주시면 감사하겠습니다.',
-    'do_title': '자문단은 이런 일을 해요',
-    'do': '제보에 전문가 의견 | 어떤 법과 기준이 적용되는지, 소비자가 무엇을 요구할 수 있는지 짧게 남겨 주세요.\n'
-          '소비자 질문에 답변 | 제보자와 공감한 소비자의 궁금증에 답해 주세요.\n'
-          '기사 속 전문가 코멘트 | 기사로 나가는 제보에 의견이 이름과 소속 법인과 함께 실려요.\n'
-          '같은 피해가 모인 사건 자문 | 여러 소비자가 같은 기업에 겪은 피해의 대응 방향을 함께 살펴 주세요.',
+    'do_title': '자문단은 이런 일을 합니다',
+    'do': '제보에 짧은 의견 | 어떤 법과 기준이 적용되는지, 소비자가 무엇을 요구할 수 있는지 남겨 주십시오.\n'
+          '기사 속 전문가 코멘트 | 기사로 나가는 제보에 이름·소속과 함께 의견이 실립니다.\n'
+          '같은 피해가 모인 사건 자문 | 여러 소비자가 같은 기업에 겪은 피해의 대응 방향을 함께 살펴 주십시오.',
     'get_title': '함께하시면',
-    'get': '변호사님마다 사진·이력·소속 법인을 담은 소개 페이지가 생기고, 남긴 의견이 그 페이지에 쌓여요.\n'
-           '새 제보를 매일 저녁 6시에 메일로 받아, 원하는 제보에만 의견을 남기시면 돼요. 의무는 없어요.\n'
-           '소비자의 상담 신청을 메일로 바로 받으세요. 소개와 연결에 저희는 어떤 비용도 받지 않아요.',
+    'get': '법률 도움이 필요한 제보자를 변호사님께 직접 연결해 드립니다. 소개와 연결에 수수료는 받지 않습니다.\n'
+           '변호사님 소개 페이지와 자문 기사가 네이버·구글 검색에 노출됩니다. 블로그나 사무소 홈페이지에 그대로 쓰셔도 됩니다.\n'
+           '새 제보는 매일 저녁 6시에 메일로 받아 보시고, 원하는 제보에만 의견을 남기시면 됩니다. 한 달에 1~2건이면 충분합니다.',
     'sample': '1',
-    'note': '참여는 변호사님 개인별로 받아요. 여러 분이 함께하시면 모두 같은 법인 소속으로 소개돼요.',
-    'cta': '자문단 참여하기',
-    'cta_sub': '변호사님별로 소속·분야·프로필 사진만 넣으면 돼요. 등록증은 필요 없어요 (3분)',
-    'sign': '전달해 주시는 것만으로도 큰 힘이 됩니다. 궁금한 점은 이 메일로 답장 주세요.\n감사합니다.\n\n**오종민 드림**\n소비자제보센터 by SOBORU 대표',
+    'note': '참여는 변호사님 개인별로 받습니다. 비용은 없고, 원하실 때 언제든 그만두실 수 있습니다.',
+    'cta': '자문단 등록하기',
+    'cta_sub': '소속·분야·프로필 사진만 넣으시면 됩니다. 3분이면 끝납니다.',
+    'sign': '번거로우시면 이 메일에 사진과 분야만 답장으로 보내 주십시오. 프로필은 저희가 만들어 드리겠습니다.\n감사합니다.\n\n**오종민 드림**\n소비자를위한신문 발행인 · 소비자제보센터 대표',
 }
 _LABELS = [('subject', '메일 제목', 1), ('kick', '맨 위 작은 글씨', 1), ('title', '큰 제목 (○○ 법무법인 자리에 이름이 들어가요)', 2),
           ('intro', '인사·소개 (빈 줄로 문단을 나눠요)', 8), ('flow_title', '해결 과정 제목', 1), ('flow', '해결 과정 (한 줄에 하나, 제목 | 설명)', 4),
@@ -79,8 +79,8 @@ def build(c, firm='', key=''):
                                f'<p style="margin:0;font-size:14px;line-height:21px;color:#4e5968;{F}">{i}</p></td></tr></table></td>')
     cards = ''
     if c.get('sample') == '1':
-        cards = (f'<p style="margin:28px 0 6px;font-size:17px;font-weight:700;color:#191f28;{F}">자문단 소개는 이렇게 보여요 <span style="display:inline-block;margin-left:4px;padding:2px 8px;border-radius:6px;background:#4e5968;color:#ffffff;font-size:12px;font-weight:600;vertical-align:2px">예시</span></p>'
-                 f'<p style="margin:0 0 14px;font-size:14px;line-height:22px;color:#6b7684;{F}">사진을 누르면 이력과 남긴 의견, 상담 신청이 담긴 변호사님 소개 페이지로 이어져요.</p>'
+        cards = (f'<p style="margin:28px 0 6px;font-size:17px;font-weight:700;color:#191f28;{F}">자문단 소개는 이렇게 보입니다 <span style="display:inline-block;margin-left:4px;padding:2px 8px;border-radius:6px;background:#4e5968;color:#ffffff;font-size:12px;font-weight:600;vertical-align:2px">예시</span></p>'
+                 f'<p style="margin:0 0 14px;font-size:14px;line-height:22px;color:#6b7684;{F}">사진을 누르면 이력과 남긴 의견, 상담 신청이 담긴 변호사님 소개 페이지로 이어집니다.</p>'
                  f'<table width="100%" cellpadding="0" cellspacing="0" border="0"><tr>{"".join(card(*s) for s in SAMPLES)}</tr></table>')
     intro = ''.join(pp(sub(p)) for p in (c.get('intro') or '').split('\n\n') if p.strip())
     flow = _pairs(c.get('flow'))
@@ -97,6 +97,8 @@ def build(c, firm='', key=''):
 <h1 style="margin:0 0 20px;font-size:28px;line-height:38px;font-weight:700;color:#191f28;{F}">{_t(sub(c.get('title')))}</h1>
 {intro}{flow_box}{pp(sub(c.get('ask'))) if (c.get('ask') or '').strip() else ''}
 {h3(c.get('do_title')) if does else ''}<table cellpadding="0" cellspacing="0" border="0">{does}</table>
+<p style="margin:24px 0 10px;font-size:15px;font-weight:700;color:#191f28;{F}">제보 화면에서는 이렇게 보입니다 <span style="display:inline-block;margin-left:4px;padding:2px 8px;border-radius:6px;background:#4e5968;color:#ffffff;font-size:12px;font-weight:600;vertical-align:2px">예시</span></p>
+<img src="{BASE}/static/img/expert-mail-flow.png" width="560" alt="소비자가 제보 화면에서 자문단을 부르고, 변호사가 제보에 댓글로 답하는 예시 화면" style="display:block;width:100%;max-width:560px;height:auto;border:0;margin:0 0 8px">
 {h3(c.get('get_title'), '20px') if gets else ''}<table cellpadding="0" cellspacing="0" border="0">{gets}</table>
 {cards}
 <p style="margin:16px 0 0;font-size:14px;line-height:22px;color:#4e5968;{F}">{_t(sub(c.get('note')))}</p>
@@ -104,7 +106,7 @@ def build(c, firm='', key=''):
 <p style="margin:0;text-align:center;font-size:13px;color:#8b95a1;{F}">{_t(c.get('cta_sub'))}</p>
 <p style="margin:32px 0 0;font-size:15px;line-height:24px;color:#4e5968;{F}">{_t(sub(c.get('sign')))}</p>
 </td></tr>
-<tr><td style="padding:24px 32px 28px;background:#f9fafb;border-radius:0 0 24px 24px;font-size:12px;line-height:19px;color:#8b95a1;{F}">소비자제보센터 by SOBORU · <a href="{BASE}" target="_blank" style="color:#4e5968">consumerjebo.co.kr</a><br>contact@consumerjebo.co.kr · 서울시 강남구 논현로 310-1 4층<br>이 메일은 자문단 참여를 제안드리기 위해 한 번 보내 드렸어요.</td></tr>
+<tr><td style="padding:24px 32px 28px;background:#f9fafb;border-radius:0 0 24px 24px;font-size:12px;line-height:19px;color:#8b95a1;{F}">소비자제보센터 by SOBORU · <a href="{BASE}" target="_blank" style="color:#4e5968">consumerjebo.co.kr</a><br>contact@consumerjebo.co.kr · 서울시 강남구 논현로 310-1 4층<br>이 메일은 자문단 참여를 제안드리기 위해 한 번 보내 드렸습니다.</td></tr>
 </table></td></tr></table>'''
 
 
